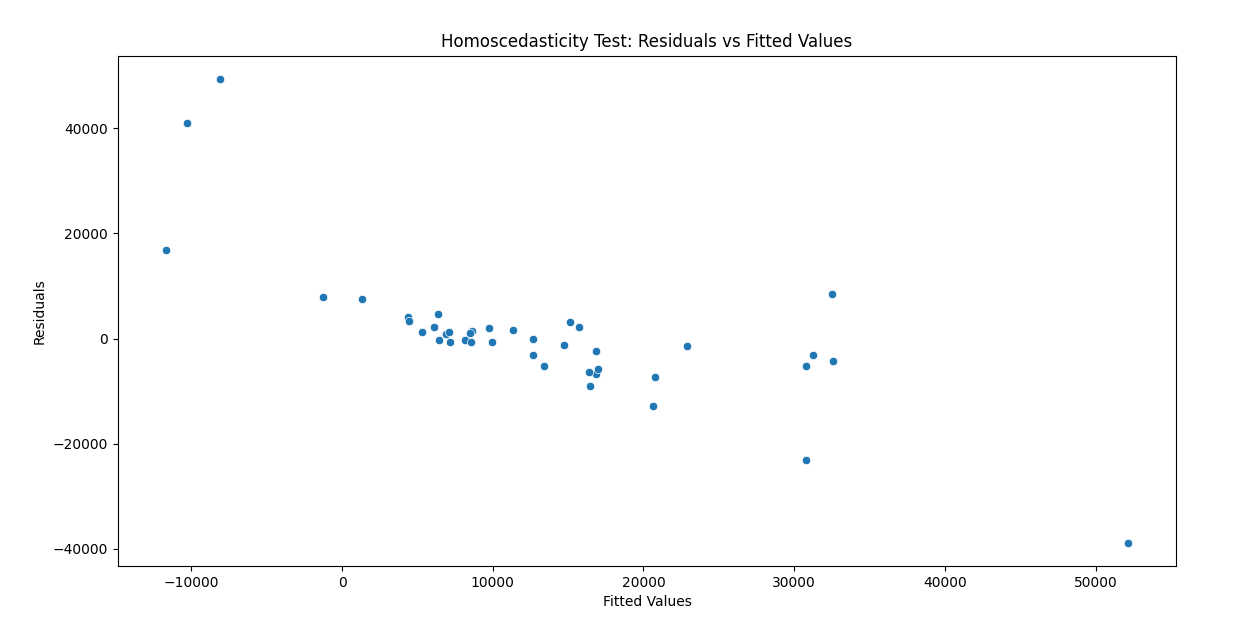
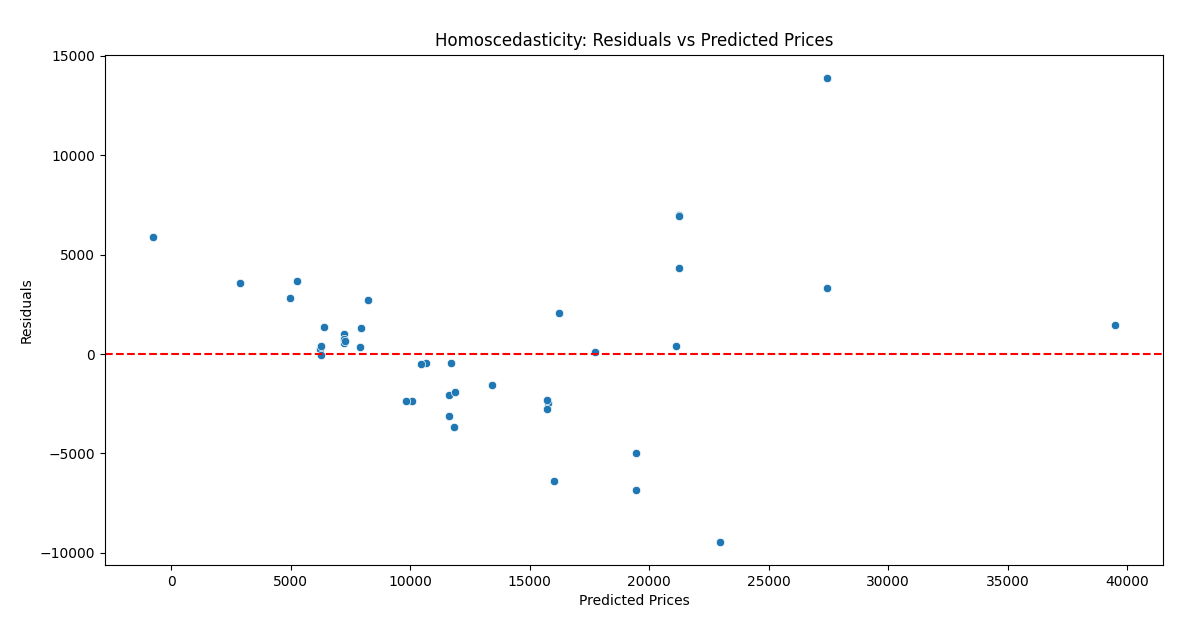
Done

diff --git a/README.md b/README.md
@@ -32,82 +32,77 @@ To write a program to predict car prices using a linear regression model and tes
 Developed by: Vishwaraj G. 
 RegisterNumber: 212223220125
 */
-# Import necessary libraries
 import pandas as pd
 import numpy as np
-import statsmodels.api as sm
-import seaborn as sns
-import matplotlib.pyplot as plt
-from sklearn.linear_model import LinearRegression
 from sklearn.model_selection import train_test_split
+from sklearn.linear_model import LinearRegression
 from sklearn.metrics import mean_squared_error, r2_score
+import matplotlib.pyplot as plt
+import seaborn as sns
+import statsmodels.api as sm
 
-# Step 1: Data Loading
-url = 'https://cf-courses-data.s3.us.cloud-object-storage.appdomain.cloud/IBM-ML240EN-SkillsNetwork/labs/data/CarPrice_Assignment.csv'
-data = pd.read_csv(url)
+# Load the dataset
+file_path = 'CarPrice.csv'
+df = pd.read_csv(file_path)
 
-# Step 2: Data Exploration and Preprocessing
-# Display the first few rows of the dataset
-print(data.head())
+# Select relevant features and target variable
+X = df[['enginesize', 'horsepower', 'citympg', 'highwaympg']]  # Features
+y = df['price']  # Target variable
 
-# Checking for missing values
-print(data.isnull().sum())
-
-# Dropping rows with missing values (if any)
-data = data.dropna()
-
-# Encode categorical variables (like car company names, fuel type, etc.) using one-hot encoding
-data_encoded = pd.get_dummies(data, drop_first=True)
-
-# Step 3: Splitting the data into features (X) and target (y)
-X = data_encoded.drop('price', axis=1)  # Features
-y = data_encoded['price']  # Target variable
-
-# Step 4: Splitting the data into training and test sets
+# Split the dataset
 X_train, X_test, y_train, y_test = train_test_split(X, y, test_size=0.2, random_state=42)
 
-# Step 5: Fitting the Linear Regression Model
+# Train the linear regression model
 model = LinearRegression()
 model.fit(X_train, y_train)
 
-# Step 6: Predicting the prices using the test set
+# Predictions
 y_pred = model.predict(X_test)
 
-# Step 7: Evaluating the model
-# Coefficients and Intercept
+# Model Evaluation
 print("Coefficients:", model.coef_)
 print("Intercept:", model.intercept_)
+print("Mean Squared Error:", mean_squared_error(y_test, y_pred))
+print("R-squared:", r2_score(y_test, y_pred))
 
-# R-squared
-print(f'R-squared: {r2_score(y_test, y_pred)}')
-
-# Mean Squared Error
-print(f'Mean Squared Error (MSE): {mean_squared_error(y_test, y_pred)}')
-
-# Step 8: Assumptions Testing
-
-# 8.1 Linearity Test: Plot actual vs predicted values
-plt.figure(figsize=(8,6))
-sns.scatterplot(x=y_test, y=y_pred)
-plt.xlabel("Actual Car Prices")
-plt.ylabel("Predicted Car Prices")
-plt.title("Actual vs Predicted Car Prices")
+# 1. Assumption: Linearity
+plt.scatter(y_test, y_pred)
+plt.title("Linearity: Observed vs Predicted Prices")
+plt.xlabel("Observed Prices")
+plt.ylabel("Predicted Prices")
 plt.show()
 
-# 8.2 Homoscedasticity Test: Residuals vs Fitted values
+# 2. Assumption: Independence (Durbin-Watson test)
 residuals = y_test - y_pred
-plt.figure(figsize=(8,6))
+dw_test = sm.stats.durbin_watson(residuals)
+print(f"Durbin-Watson Statistic: {dw_test}")
+
+# 3. Assumption: Homoscedasticity
 sns.scatterplot(x=y_pred, y=residuals)
-plt.xlabel("Fitted Values")
+plt.axhline(y=0, color='r', linestyle='--')
+plt.title("Homoscedasticity: Residuals vs Predicted Prices")
+plt.xlabel("Predicted Prices")
 plt.ylabel("Residuals")
-plt.title("Homoscedasticity Test: Residuals vs Fitted Values")
 plt.show()
+
+# 4. Assumption: Normality of residuals
+sns.histplot(residuals, kde=True)
+plt.title("Normality: Histogram of Residuals")
+plt.show()
+
+sm.qqplot(residuals, line='45')
+plt.title("Normality: Q-Q Plot of Residuals")
+plt.show()
+
+# Insights
+print("Check these outputs to verify assumptions for linear regression.")
 ```
 
 ## Output:
 ![alt text](Ex-1-Output.PNG)
-![alt text](Ex-1-Chart.PNG)
-![alt text](Ex-1-Chart2.PNG) 
-
+![alt text](Ex-1-Chart1.png) 
+![alt text](Ex-1-Chart2.png) 
+![alt text](Ex-1-Chart3.png)
+![alt text](Ex-1-Chart4.png) 
 ## Result:
 Thus, the program to implement a linear regression model for predicting car prices is written and verified using Python programming, along with the testing of key assumptions for linear regression.
